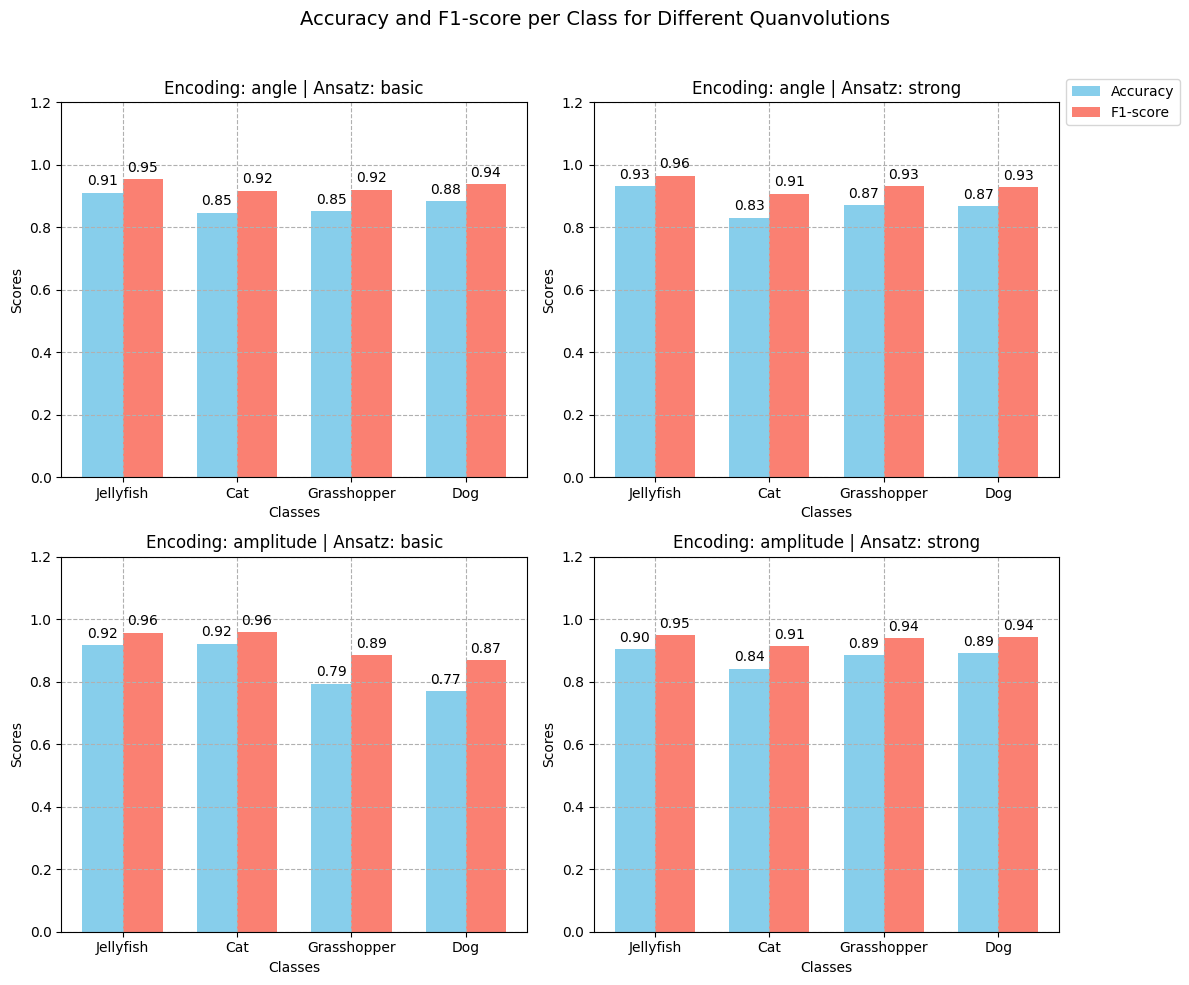
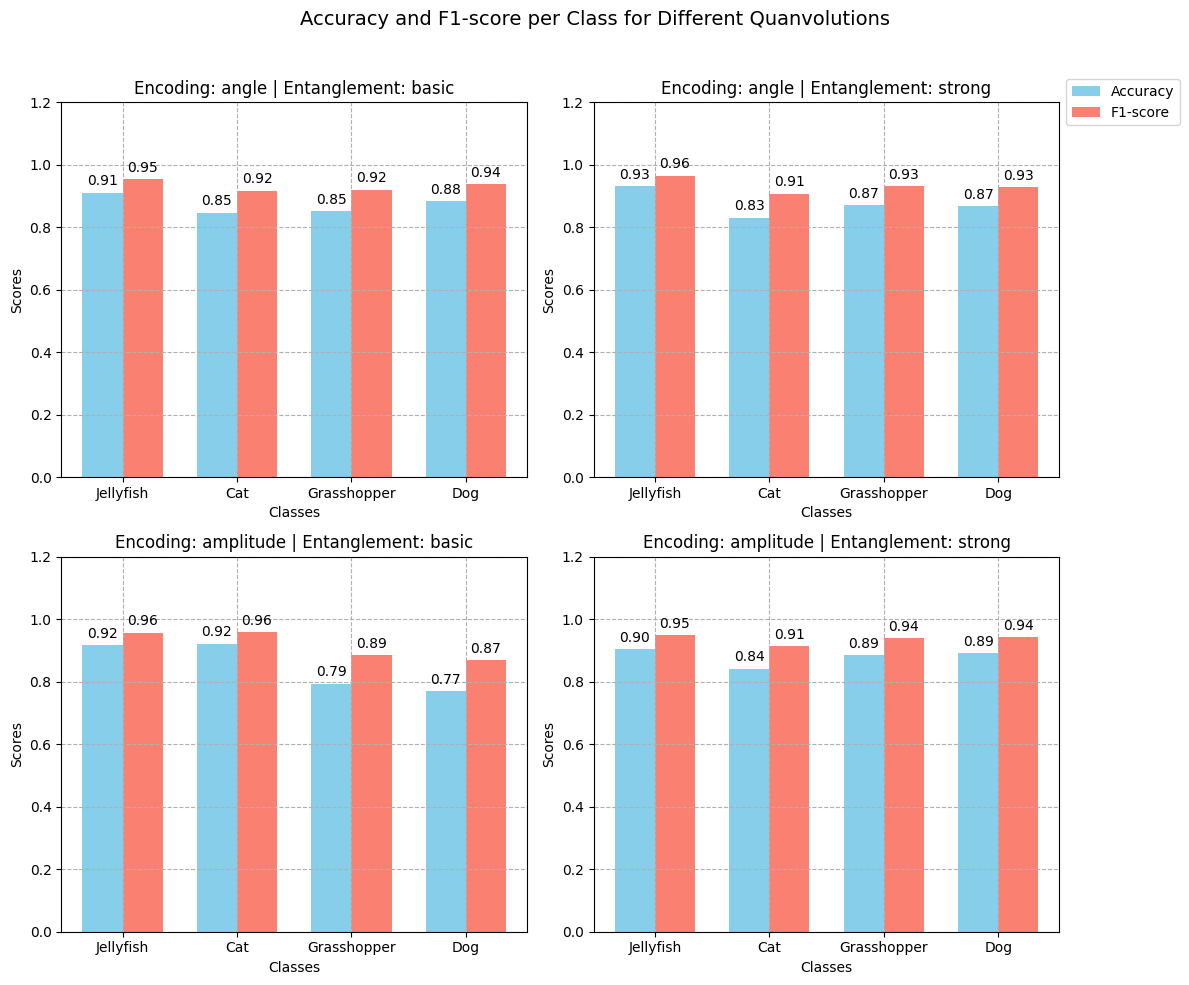
rename params

diff --git a/Plots/generate_benchmark.py b/Plots/generate_benchmark.py
@@ -92,7 +92,7 @@ def main():
         dict1["Explainability"] = np.round(avg_metrics[4],4)
         df1.append(dict1)
 
-        configurations.append("Encoding: "+encoding+" | "+"Ansatz: "+ansatz)
+        configurations.append("Encoding: "+encoding+" | "+"Entanglement: "+ansatz)
         class_metrics = results[config][2]
 
         accuracies_list.append([
